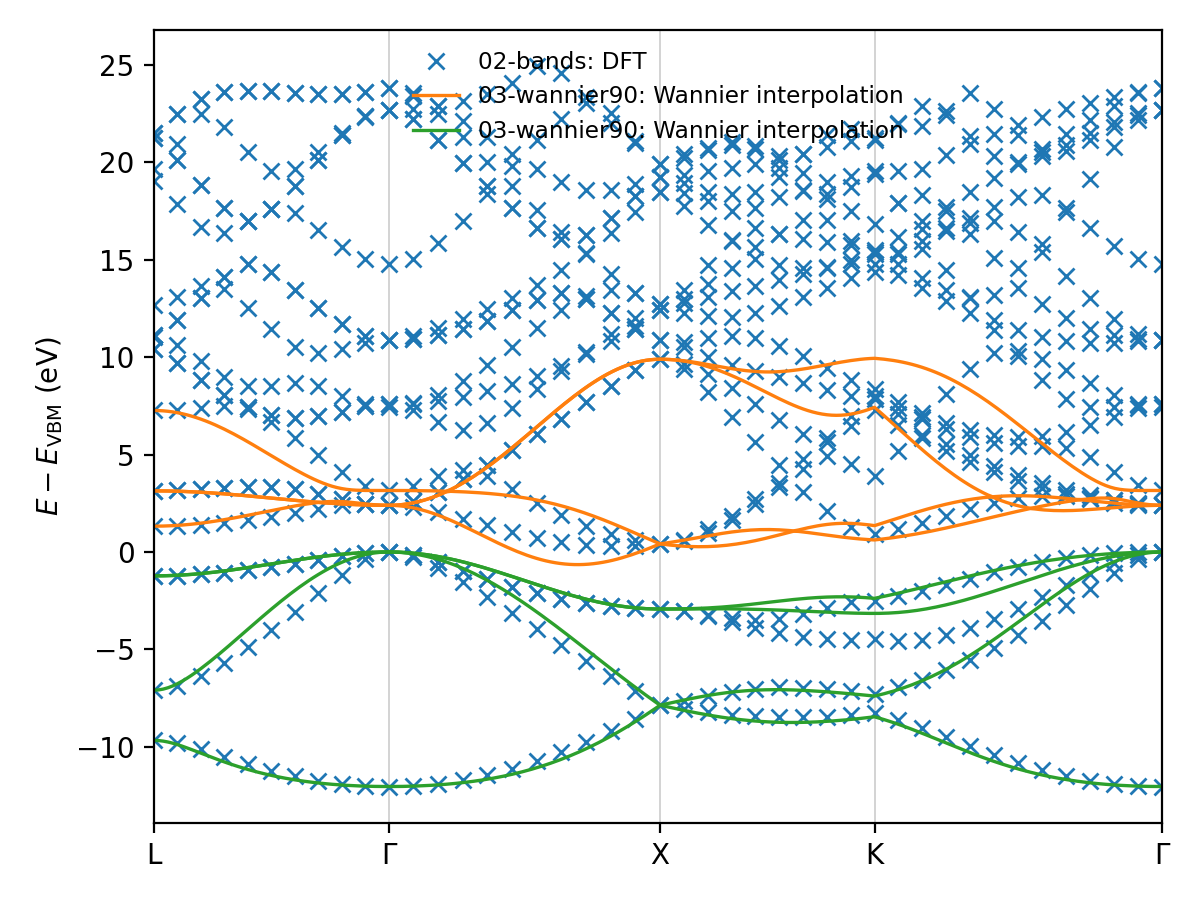
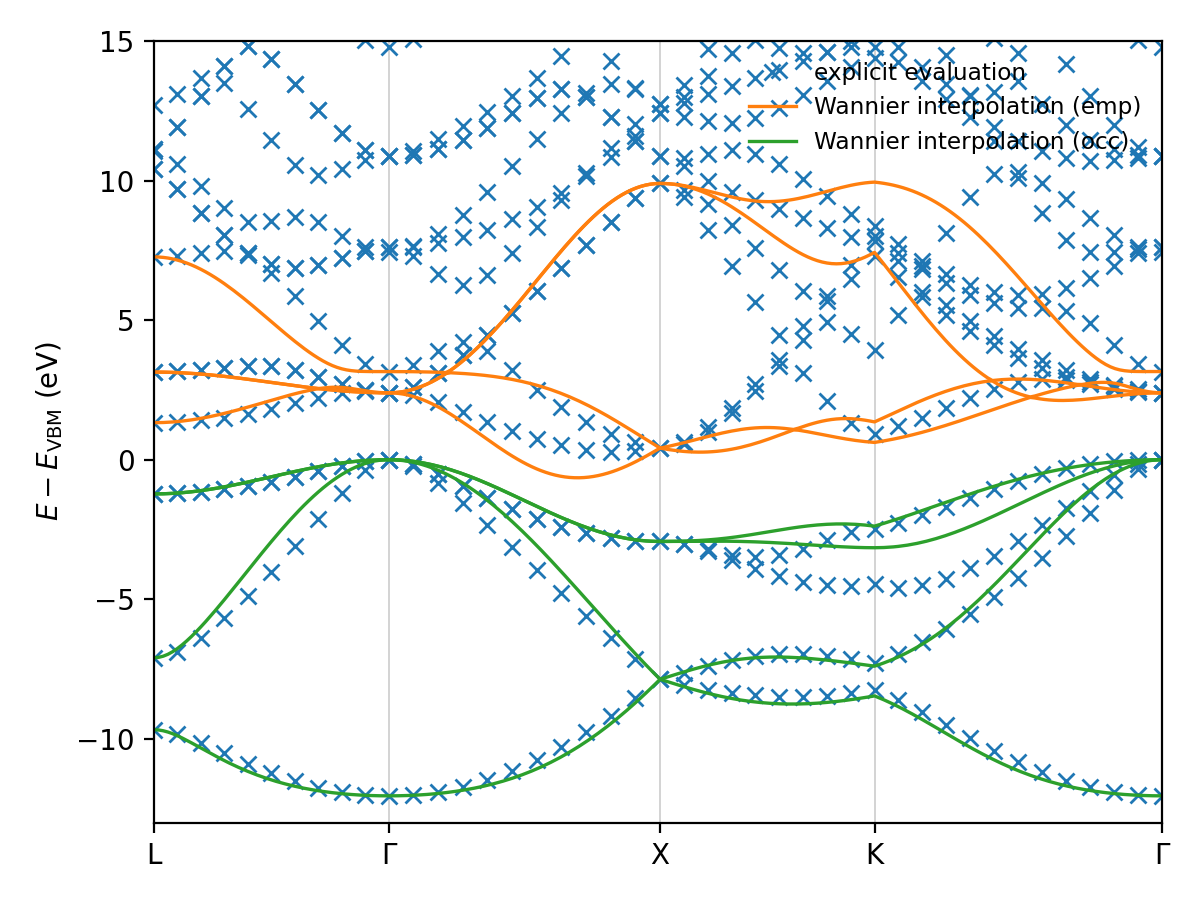
Tweaking tutorial wording

diff --git a/docs/source/tutorials/band_structures/silicon_finite_differences/index.rst b/docs/source/tutorials/band_structures/silicon_finite_differences/index.rst
@@ -6,18 +6,13 @@ This tutorial applies the KI functional to a crystal. Two things change once the
 becomes periodic:
 
 - instead of using Kohn-Sham states as the variational orbitals, we use Wannier functions
-- when computing screening parameters from total-energy differences, the calculations require a supercell to avoid the spurious interaction of charged periodic images
+- when computing screening parameters from total-energy differences, the calculations require a supercell to
+  avoid the spurious interaction of charged periodic images
 
-Everything else is the workflow you already know from :doc:`the previous tutorials on molecules <../../orbital_energies/index>`: initialize the variational orbitals,
+Everything else is the workflow you already know from :doc:`the previous tutorials on molecules
+<../../orbital_energies/index>`: initialize the variational orbitals,
 compute one screening parameter per orbital from constrained calculations, then evaluate
 the corrected functional.
-
-.. note::
-
-    Total-energy differences are not the only way to get the screening parameters. The
-    :doc:`next tutorial <../silicon_linear_response/index>` computes them for the same
-    system by linear response, which removes the need for a supercell throughout and is generally
-    cheaper.
 
 ***********************************
  Variational orbitals in a crystal
@@ -62,11 +57,11 @@ with ``pw.x`` and ``pw2wannier90.x``.
 .. note::
 
     This tutorial does not teach Wannierization itself — the `Wannier90 tutorials
-    <http://www.wannier.org/support/>`_ do that already. One point of departure is
-    worth flagging, though: Most Wannier90 tutorials Wannierize occupied and empty states
-    together. A Koopmans calculation requires separate representations of the occupied
+    <http://www.wannier.org/support/>`_ do that already. One point is
+    worth flagging, though: most Wannier90 tutorials Wannierize the occupied and empty states
+    together, but a Koopmans calculation requires separate representations of the occupied
     and empty manifolds. We therefore Wannierize the two manifolds separately.
-    **blocks**.
+
 
 ****************
  The input file
@@ -104,7 +99,8 @@ Periodic systems also require ``kpoints``:
     :end-at: grid:
 
 sets the Brillouin-zone sampling, and with it the size of the supercell the screening
-calculations will run in — a :math:`2\times2\times2` grid means the :math:`N \pm 1`-electron calculations run in an 8-cell supercell.
+calculations will run in — a :math:`2\times2\times2` grid means the :math:`N \pm 1`-electron calculations run
+in an 8-cell supercell.
 Refining the sampling therefore costs a great deal more here than it would in a plain
 DFT calculation.
 
@@ -116,8 +112,11 @@ Finally, the ``wannier90`` sub-block says which Wannier functions we want:
     :end-before: dis_win_max
 
 Each inner list is one block, and each block gets its own Wannierization. Both blocks
-ask for four :math:`sp^3` hybrids on the bond-center site: the first block takes the
-four filled bonding combinations, the second the four empty antibonding ones.
+ask for the same four :math:`sp^3` hybrids on a silicon atom, pointing along its four
+bonds. What distinguishes them is the bands they are built from: the first block is
+restricted to the four filled bands, where those hybrids can only combine into bonding
+orbitals; the second excludes the filled bands and disentangles four from the empty
+states above, where the same hybrids pick out the antibonding partners.
 
 .. question:: Why is ``alpha_guess`` 0.077 here, when ozone used 0.6?
 
@@ -132,8 +131,8 @@ four filled bonding combinations, the second the four empty antibonding ones.
 ********************************
 
 A Koopmans calculation on a solid is only as good as its variational orbitals, and the
-Wannierization is the one step in this workflow that regularly needs adjusting. So run
-it on its own first — that is what ``task: wannierize`` in the file is for.
+Wannierization can be sensitive to the choice of projectors and windows. Let's run
+it on its own first, to check it (this is why the input file has ``task: wannierize``)
 
 .. code-block:: console
 
@@ -154,13 +153,15 @@ it on its own first — that is what ``task: wannierize`` in the file is for.
 
 The progress table shows a self-consistent ``pw.x`` calculation, then a
 non-self-consistent one that adds the empty bands, then one Wannierization per block —
-each of which is itself a ``wannier90.x`` preprocessing run, a ``pw2wannier90.x`` run
-that extracts the overlaps and projections, and the ``wannier90.x`` run that minimizes
-the spread. A further ``pw.x`` calculation runs off the self-consistent density to get
-the bands along ``path``; the last part of this section is what it is for.
+each of which involves...
 
-The results land in ``si/``, one directory per step, exactly as :doc:`the ozone tutorial
-<../../orbital_energies/ozone/automatically>` describes. The files worth opening are the
+1. a ``wannier90.x`` preprocessing run
+2. a ``pw2wannier90.x`` run that extracts the overlaps and projections,
+3. and the ``wannier90.x`` run that minimizes the spread.
+
+A further ``pw.x`` calculation computes the DFT bands along the specified ``path``.
+
+The results land in ``si/``, one directory per step. The files worth opening are the
 ``aiida.wout`` files under the ``wannierize_occ_1`` and ``wannierize_emp_1`` steps, which
 are Wannier90's own reports on each block. Each contains a table headed
 
@@ -195,23 +196,9 @@ the Wannier functions ended up.
     symmetry, so a run that gives four different spreads has converged to something that
     is not the symmetric minimum.
 
-.. question:: Increase ``grid`` to ``[4, 4, 4]`` and rerun. Do the Wannier functions get better or worse?
-
-    The reported spread *grows* — from 1.025 to 1.617 Å² for the filled block, and to
-    2.066 Å² on an :math:`8\times8\times8` grid. This is not the Wannier functions
-    getting worse. A Wannier function lives in the Born-von Karman supercell that the
-    k-point grid defines, and a :math:`2\times2\times2` grid gives it only eight cells to
-    live in — too few to hold its tails. The coarse grid does not localize the orbital
-    better; it truncates it, and reports a spread that is too small.
-
-    This is the sense in which the grid in this file is unconverged, and it is worth
-    knowing before you read the numbers at the end of this tutorial.
-
-``aiida.wout`` reports what Wannier90 did. Whether the result still describes the
-electronic structure ``pw.x`` computed is a separate question, and the band structure
-answers it. Because ``si.yaml`` gives a ``path``, each block's Wannier functions are
-interpolated along it, and the extra ``pw.x`` calculation supplies the same bands
-directly. Draw them on one set of axes with
+To more rigorously assess the quality of the Wannier functions, let's inspect how they
+interpolate the band structure. Good Wannier functions will give a faithful interpolation.
+The ``koopmans plot bandstructure`` command can be used to plot the band structures:
 
 .. code-block:: console
 
@@ -220,19 +207,34 @@ directly. Draw them on one set of axes with
         si/03-wannierize_emp_1/01-wannier90/03-wannier90 \
         si/04-wannierize_occ_1/01-wannier90/03-wannier90
 
-which writes ``bandstructure.png`` — or add ``--show`` to open a window instead. A
-``--style`` binds to the folder just before it, so this draws the ``pw.x`` bands as
-crosses (``x``) while keeping each series' own color, and leaves the two Wannier
-interpolations — one per block — as plain lines; crosses make it easy to see exactly
-where a line runs through them and where it departs.
+which writes ``bandstructure.png``. ``--style x`` draws the ``pw.x`` bands as crosses, and leaves the two Wannier
+interpolations — one per block — as plain lines. The lines should neatly traverse the crosses.
 
-Two things are worth reading off it. *Which* bands the interpolation is obliged to
-reproduce is what ``dis_froz_max`` sets: the empty block must span the states below it
-and is free above, so tracking ``pw.x`` inside the frozen window and departing from it
-higher up is the disentanglement doing exactly what it was told. *How closely* the
-interpolation follows those bands between the k-points of the grid is set by the grid: a
-Wannier interpolation is exact on the k-points it was built from, and
-:math:`2\times2\times2` gives it eight of them to carry the whole path.
+.. question:: Plot the bandstructure, What do you get?
+
+    .. image:: bandstructure.png
+        :align: center
+        :width: 80%
+
+    The Wannier interpolations (solid lines) follow the explicit evaluation (crosses) exactly at the k-points they
+    were built from,
+    but the interpolation is fairly inaccurate far away from those points! A :math:`2\times2\times2` grid is very
+    coarse, so this is not a surprise.
+
+.. question:: Increase ``grid`` to ``[4, 4, 4]`` and rerun. Do the Wannier functions get
+    better or worse? Check the spreads and the band interpolation.
+
+    The reported spread *grows* — from 1.025 to 1.617 Å² for the filled block, and to
+    2.066 Å² on an :math:`8\times8\times8` grid. This is not the Wannier functions
+    getting worse. A Wannier function lives in the Born-von Karman supercell that the
+    k-point grid defines, and a :math:`2\times2\times2` grid gives it only eight cells to
+    live in — too few to hold its tails. The Wannier functions remain degenerate and centered on the bonds.
+
+    The interpolation gets better. A Wannier interpolation is exact on the k-points it was
+    built from, so the :math:`2\times2\times2` is only exact at :math:`\Gamma`, :math:`X` and :math:`L`.
+    The :math:`4\times4\times4` grid includes the mid-points of the :math:`\Gamma`-:math:`X` and
+    :math:`\Gamma`-:math:`L` lines, so
+    the interpolation is exact there, too.
 
 .. question:: Read through ``koopmans plot bandstructure --help``, then polish the figure:
     give each series a name in the legend, and frame the energy window on the gap
@@ -268,9 +270,14 @@ and run it again.
 
 .. warning::
 
-    The Wannierization runs again as the first stage of it. You will not pay for it
-    twice: ``koopmans`` records every calculation in a database, and if it sees the
-    same input again it fetches the cached result.
+    We will use the :math:`2\times2\times2` grid for the rest of this tutorial, so the calculation runs quickly,
+    even though we know the Wannier functions are not converged.
+
+.. tip::
+
+    ``koopmans`` records every calculation in a database, and if it sees the
+    same input again it fetches the cached result, so the Wannierization you
+    just ran will not be repeated.
 
 -----------------------------------
  Initialization, and the supercell
@@ -278,47 +285,23 @@ and run it again.
 
 Ozone's initialization was three ``kcp.x`` calculations that converged the base
 functional's density. Silicon's is the Wannierization you just ran, followed by a stage
-called *fold to supercell*, whose ``wann2kcp.x`` and ``merge_evc.x`` calculations turn
-the k-dependent primitive-cell Wannier functions into equivalent quantities for a
+where we turn the :math:`k`-dependent primitive-cell Wannier functions into equivalent quantities for a
 :math:`\Gamma`-only supercell.
-
-.. question:: Why is a supercell needed at all?
-
-    Because of what comes next. A screening parameter is computed from the energy cost
-    of removing an electron from one variational orbital, and in the primitive cell there
-    is no such thing: the orbital has a periodic image in every cell of the crystal, so
-    emptying it empties every cell at once. That changes the charge density of the whole
-    crystal; it does not probe one orbital.
-
-    The way out is to make the cell big enough that one orbital can be emptied while the
-    rest of the crystal stays put. The supercell commensurate with the k-point grid —
-    eight primitive cells here — does exactly that, and sampling it at :math:`\Gamma`
-    alone reproduces the primitive cell sampled on the full grid. ``kcp.x``, which runs
-    every stage from here on, works only at :math:`\Gamma`, so this is the form it needs.
-
-    This is also the whole reason the :doc:`linear-response route
-    <../silicon_linear_response/index>` exists. It reaches the same screening parameters
-    from the response of the primitive cell to an infinitesimal change in occupancy, and
-    never builds a supercell.
 
 ------------------------------------
  Computing the screening parameters
 ------------------------------------
 
-The supercell holds 64 variational orbitals: eight Wannier functions per primitive cell,
-in eight cells, 32 filled and 32 empty. A constrained calculation for each would be
-absurd, and unnecessary — most of those orbitals are images of one another.
+The supercell contains 64 variational orbitals: eight Wannier functions per primitive cell,
+in eight cells, 32 filled and 32 empty. Computing a screening parameter for each would be
+unnecessary — most of those orbitals are symmetrically equivalent to one another.
 
-``koopmans`` recognizes this on its own. The default for a Wannier-initialized
-:math:`\Delta`\ SCF run groups orbitals by their self-Hartree energy, which is identical
-for orbitals related by a lattice translation or by the crystal's point group; only one
-representative of each group gets a constrained calculation, and every member of the
-group takes the resulting :math:`\alpha`. Silicon's 32 filled orbitals are one bond
-orbital seen 32 equivalent ways — four bonds in each of eight cells — and the 32 empty
-ones likewise, so of the 64 just **two** are screened. The keywords behind this are
-``group_orbitals_by`` and ``group_orbitals_tol``.
+``koopmans`` can recognize this on its own by grouping together orbitals according to
+a few metrics. The keywords behind this are ``group_orbitals_by`` and ``group_orbitals_tol``.
+In the provided input file we group the orbitals if their self-Hartree energy (the default)
+is within 0.1 eV of one another.
 
-From there the loop is ozone's: a trial KI calculation at the guessed
+From there the loop is the same as ever: a trial KI calculation at the guessed
 :math:`\alpha_i`, then a constrained :math:`N-1` calculation for the filled
 representative and an :math:`N+1` one for the empty representative, then the screening
 parameters that follow.
@@ -338,9 +321,8 @@ orbitals and ``file_alpharef_empty.txt`` for the empty ones.
 
     Two things are worth noticing. Both are far below the 0.66 to 0.79 that ozone gave: a
     covalent solid screens an added or removed charge far more effectively than an
-    isolated molecule, and the screening parameter measures exactly that. And filled and
-    empty orbitals come out a factor of three apart, even though they sit on the same
-    bonds — which is why one :math:`\alpha` for the whole system would not do.
+    isolated molecule. The filled and empty orbitals come out a factor of three apart,
+    so one :math:`\alpha` for the whole system would not do.
 
 The orbital energies are in the final KI calculation's ``outputs/aiida.cpo``, and the
 base-functional ones in the initialization output for comparison.
@@ -391,33 +373,110 @@ base-functional ones in the initialization output for comparison.
  From eigenvalues to a band structure
 **************************************
 
-Turning those supercell eigenvalues into a band structure means undoing the fold:
-assigning each supercell eigenvalue back to the primitive-cell :math:`\mathbf{k}` it came
-from, and interpolating between them onto a path through the Brillouin zone. This is the
-*unfold and interpolate* procedure of Ref. :cite:`DeGennaro2022`.
+Turning those supercell eigenvalues into a band structure means undoing the fold to a
+supercell. This requires us to assign each supercell eigenvalue back to the primitive-cell
+:math:`\mathbf{k}` it came from, and interpolating between them onto a path through the
+Brillouin zone. This is the *unfold and interpolate* procedure of Ref. :cite:`DeGennaro2022`.
 
-.. note::
+The _unfolding_ step involves assigning eigenstates to their corresponding :math:`\mathbf{k}` point.
+This procedure is exact: the supercell's :math:`\Gamma`-point eigenstates *are* the
+primitive cell's states on the :math:`2\times2\times2` grid, so each one can be assigned
+its :math:`\mathbf{k}` without approximation.
 
-    Unfolding is not yet available in this version of ``koopmans``. Until it is, a
-    Koopmans band structure comes from the :doc:`linear-response route
-    <../silicon_linear_response/index>`, which works in the primitive cell throughout and
-    so needs no unfolding — this is a practical argument for that route on top of the
-    cost argument above.
+The _interpolation_ procedure involves mixing in a higher-resolution DFT data into the
+Koopmans band structure. Written in the basis of Wannier functions, the KI Hamiltonian is the LDA Hamiltonian plus
+a correction:
 
-*******************
- Choosing a route
-*******************
+.. math::
 
-Both routes compute the same screening parameters. They differ in what they cost and in
-what they can reach.
+    H^{\mathrm{KI}}_{\mathbf{R}} = H^{\mathrm{LDA}}_{\mathbf{R}} + \Delta H_{\mathbf{R}}
 
-The :math:`\Delta`\ SCF route in this tutorial computes each screening parameter from an
-actual constrained calculation, which makes no assumption of linearity. The price is the
-supercell: refine the k-point grid and the supercell every screening calculation runs in
-grows with it. It is the route to reach for on molecules and on small cells.
+The Koopmans correction is short-ranged and interpolates well even from a coarse grid. The LDA
+part does not — the first figure in this tutorial showed how poorly a
+:math:`2\times2\times2` Wannier interpolation traces the LDA bands. One line in the
+``kpoints`` block of the input file addresses this:
 
-Linear response gets the same parameters from the primitive cell's response to an
-infinitesimal change in occupancy. The cost does not grow with the k-point grid in the
-same way, the primitive cell is never left, and the band structure follows directly.
-:doc:`The next tutorial <../silicon_linear_response/index>` does exactly that for this
-same silicon input.
+.. literalinclude:: si.yaml
+    :language: yaml
+    :start-at: kpoints:
+    :end-at: smooth_interpolation_factor
+
+``smooth_interpolation_factor: 4`` says to replace :math:`H^{\mathrm{LDA}}_{\mathbf{R}}` with the
+same quantity computed on a grid four times denser in each direction, keeping
+:math:`\Delta H_{\mathbf{R}}` from the supercell calculation. The denser grid requires a
+non-self-consistent ``pw.x`` calculation and a Wannierization per block on an
+:math:`8\times8\times8` grid, with the same projections and windows as before. This is not
+expensive, as these are DFT calculations in the primitive cell, far cheaper than the
+charged defect supercell calculations it complements.
+
+These steps appear in the progress table either side of the final KI calculation.
+``Smooth wannierization`` runs the dense-grid Wannierization, and ``Band interpolation``
+extracts the KI Hamiltonian of each block from the final KI calculation, interpolates it
+along ``path``, and joins the two blocks into one band structure. The result lands in
+``si-ki/outputs/band_structure`` as ``kpoints.npy`` and ``bands.npy``.
+
+The same command as before draws it, here on top of the LDA bands from the first part of
+this tutorial:
+
+.. code-block:: console
+
+    $ koopmans plot bandstructure \
+        si/02-bands --label LDA --style -- \
+        si-ki --label "KI@LDA" \
+        --ylim -15 10 \
+        -o ki_bandstructure.png
+
+Handed a whole run rather than a single calculation directory, the command finds the band
+structure that run produced on its own. Both sets of bands are on the same energy scale,
+so no shift is needed to compare them: the zero is the LDA valence-band maximum.
+
+.. question:: What does the KI band structure look like, and what is the band gap?
+
+    .. image:: ki_bandstructure.png
+        :align: center
+        :width: 80%
+
+    The valence-band maximum sits at :math:`\Gamma` and the conduction-band minimum along
+    :math:`\Gamma`-:math:`X`, about 80% of the way to :math:`X`: silicon's indirect gap,
+    recovered from eight eigenvalues per supercell :math:`k`-point.
+
+    To put a number on it, add ``--data ki_bandstructure.json`` to the plot command, which
+    writes the plotted series as JSON, and read off the band edges:
+
+    .. code-block:: python
+
+        import json
+
+        import numpy as np
+
+        for series in json.load(open("ki_bandstructure.json"))["series"]:
+            energies = np.array(series["energies"])
+            filled, empty = energies[:, :4], energies[:, 4:]
+            print(f"{series['label']} band gap = {empty.min() - filled.max():.2f} eV")
+
+    This gives 1.18 eV for KI, against 0.29 eV for the LDA bands along the same path
+    (the dashed lines). Experiment gives 1.17 eV, and Ref. :cite:`Nguyen2018`
+    reports 1.22 eV for KI with converged settings. Our :math:`2\times2\times2` grid is a
+    long way from converged, so some of this agreement is luck.
+
+.. question:: The final KI calculation reported a gap of 1.2792 eV. Where is that number in the band structure?
+
+    At :math:`X`. The conduction band there sits 1.2792 eV above the valence-band
+    maximum at :math:`\Gamma`, matching the supercell's HOMO-LUMO gap to the last digit,
+    as it must: the supercell's :math:`\Gamma`-point states are the primitive cell's
+    states at :math:`\Gamma`, :math:`X` and :math:`L`, and among those the lowest empty
+    one is at :math:`X`. The true minimum lies between the grid points, and only the
+    interpolation can find it.
+
+*********
+ Up next
+*********
+
+Two settings govern the accuracy of this calculation, and both were left coarse here.
+The plane-wave cutoff is moderately cheap to converge, but the :math:`k`-point grid is not: it
+defines the size of the supercell used when computing the screening parameters, so
+increasing the grid massively increases the cost of every constrained calculation.
+
+The :doc:`next tutorial <../silicon_linear_response/index>` computes the screening
+parameters by linear response instead, in the primitive cell, which avoids this expensive
+supercell construction.
